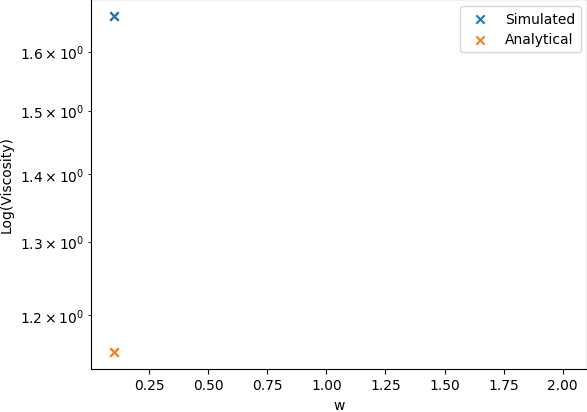
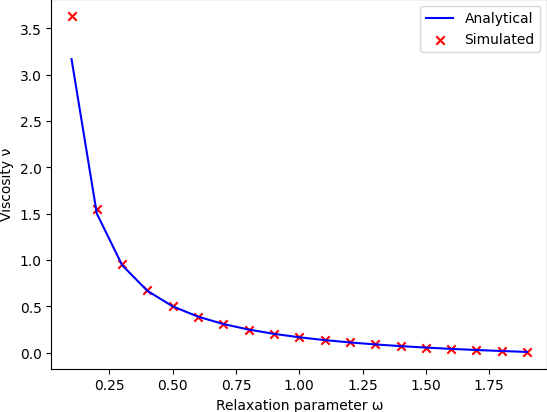
Add code

diff --git a/main.py b/main.py
@@ -14,11 +14,12 @@ def run_shear_wave_sim(args):
                    args.plot_every, args.output_dir, args.omega, 
                    args.epsilon, args.p0, args.experiment, False)
     
-
 def run_shear_wave_viscosity_sim(args):
     sim_viscosities = []
     ana_viscosities = []
-    for omega in args.omegas:
+
+    omegas = np.arange(args.omega_start, args.omega_end, args.omega_step)
+    for omega in omegas:
         sim_vis, ana_vis = shear_wave_sim(args.nx, args.ny, args.total_steps, 
                    args.plot_every, args.output_dir, omega, 
                    args.epsilon, args.p0, args.experiment, True)
@@ -31,13 +32,15 @@ def run_shear_wave_viscosity_sim(args):
     path = os.path.join(vis_path, '{}_viscosity.png' .format(args.experiment))
 
     # Plot density viscosity vs omega
+    # set up plot
     plt.cla()
-    plt.scatter(args.omegas, np.log(sim_viscosities), marker='x')
-    plt.scatter(args.omegas, np.log(ana_viscosities), marker='x')
-    plt.xlabel('w')
-    plt.yscale('log')
-    plt.ylabel('Log(Viscosity)')
-    plt.legend(['Simulated', 'Analytical'])
+    plt.xlim(0.02,1.98)
+    #plt.xticks(np.round(omegas, 1))
+    plt.plot(omegas, ana_viscosities, c="blue", label='Analytical')
+    plt.scatter(omegas, sim_viscosities, marker='x', c="red", label='Simulated')
+    plt.xlabel('Relaxation parameter \u03C9')
+    plt.ylabel('Viscosity \u03BD')
+    plt.legend(loc='upper right')
     plt.savefig(path, bbox_inches='tight', pad_inches=0)
 
 def run_couette_flow_sim(args):
@@ -74,8 +77,10 @@ shear_wave_parser.add_argument('-exp', '--experiment', type=str, choices=['densi
 shear_wave_parser.set_defaults(func=run_shear_wave_sim)
 
 shear_wave_viscosity_parser = sub_parser.add_parser('shear_wave_viscosity', help='shear_wave help')
-shear_wave_viscosity_parser.add_argument('-os', '--omegas', nargs='+', type=float, help='Omega', default=[0.1, 2.01, 0.1])
-shear_wave_viscosity_parser.add_argument('-eps', '--epsilon', type=float, help='Epsilon', default=0.1)
+shear_wave_viscosity_parser.add_argument('-os', '--omega_start', type=float, help='Omega start range', default=0.1)
+shear_wave_viscosity_parser.add_argument('-oe', '--omega_end', type=float, help='Omega end range (not included)', default=1.91)
+shear_wave_viscosity_parser.add_argument('-s', '--omega_step', type=float, help='Omega step interval', default=0.1)
+shear_wave_viscosity_parser.add_argument('-eps', '--epsilon', type=float, help='Epsilon', default=0.01)
 shear_wave_viscosity_parser.add_argument('-p0', '--p0', type=float, help='P0', default=1.0)
 shear_wave_viscosity_parser.add_argument('-exp', '--experiment', type=str, choices=['density', 'velocity'], help='Experiment', required=True)
 shear_wave_viscosity_parser.set_defaults(func=run_shear_wave_viscosity_sim)

diff --git a/experiments/shear_wave.py b/experiments/shear_wave.py
@@ -7,8 +7,8 @@ def shear_wave_sim(nx: int, ny: int, total_steps: int, plot_every: int, output_d
 
     rho = None
     velocities = None
-    x, y = np.meshgrid(np.arange(nx), np.arange(ny))
-
+    #x, y = np.meshgrid(np.arange(nx), np.arange(ny))
+    x, y = np.arange(nx), np.arange(ny)
     if(sub_experiment == "density"):
        # shear wave experiment 1 (density)
         rho = (p0 + epsilon * np.sin(2 * np.pi * x / nx)).T
@@ -23,7 +23,7 @@ def shear_wave_sim(nx: int, ny: int, total_steps: int, plot_every: int, output_d
         return
 
     latticeBoltzmann = LatticeBoltzmann(rho, velocities, omega)
-    plotter = ShearWavePlotter(nx, ny, total_steps, output_dir, sub_experiment, p0, epsilon, omega,)
+    plotter = ShearWavePlotter(nx, ny, total_steps, output_dir, sub_experiment, p0, epsilon, omega)
 
     for(step) in range(total_steps):
         # update the lattice

diff --git a/visualisation/plot.py b/visualisation/plot.py
@@ -171,7 +171,7 @@ class SlidingLidPlotter(Plotter):
         self.ax.cla()
         speed = np.sqrt(velocities.T[self.y, self.x, 0] ** 2  + velocities.T[self.y, self.x, 1] **2)
         self.ax.streamplot(self.x, self.y, velocities.T[:, :, 0], 
-                           velocities.T[:, :, 1], color=speed, cmap='RdBu_r', density=0.8)
+                           velocities.T[:, :, 1], color=speed, cmap='cool', density=0.8)
        
         self.ax.set_xlim([0 - self.padding_x, self.nx + self.padding_x])
         self.ax.set_ylim([0 - self.padding_y, self.ny + self.padding_y])
